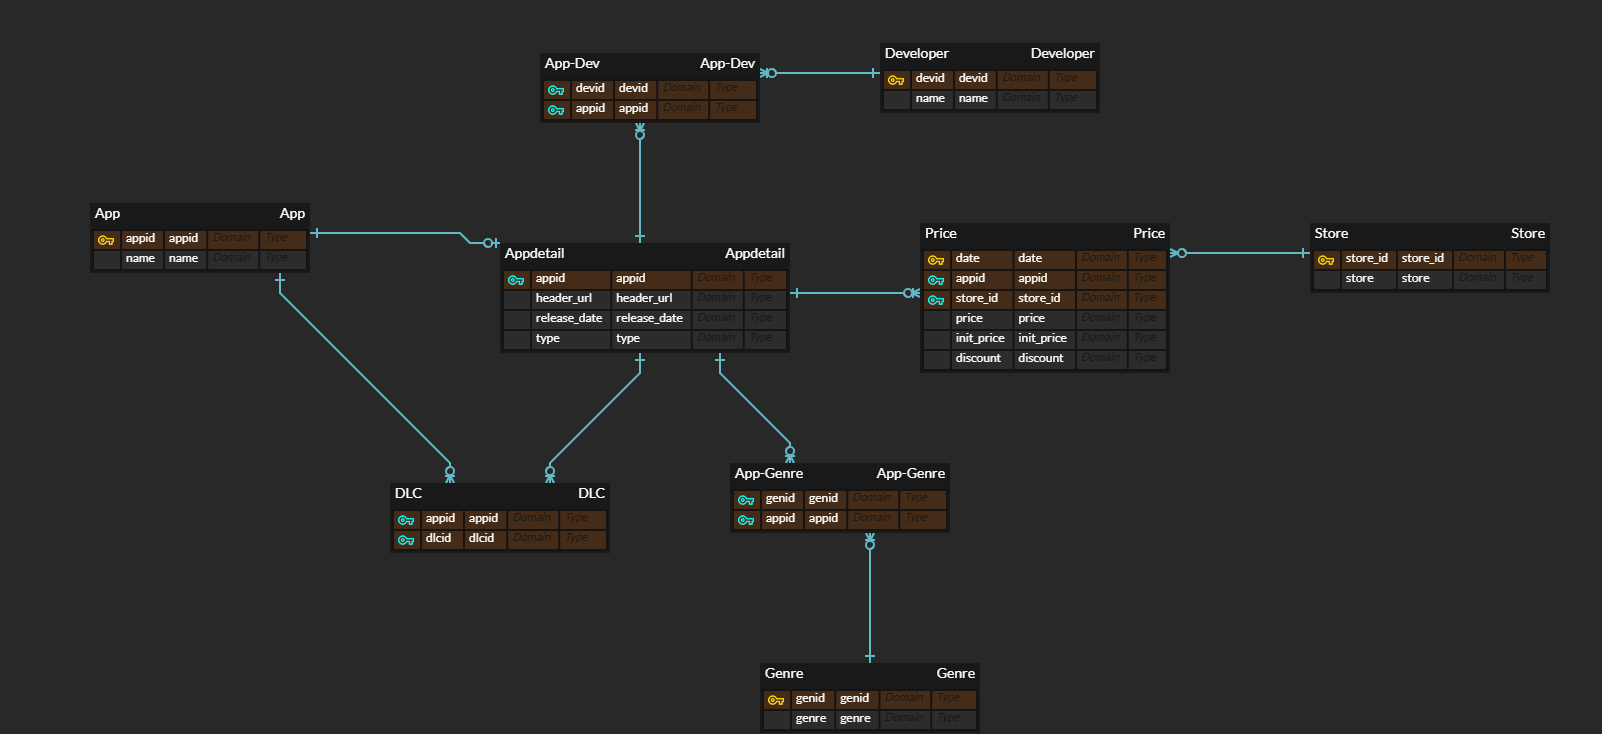
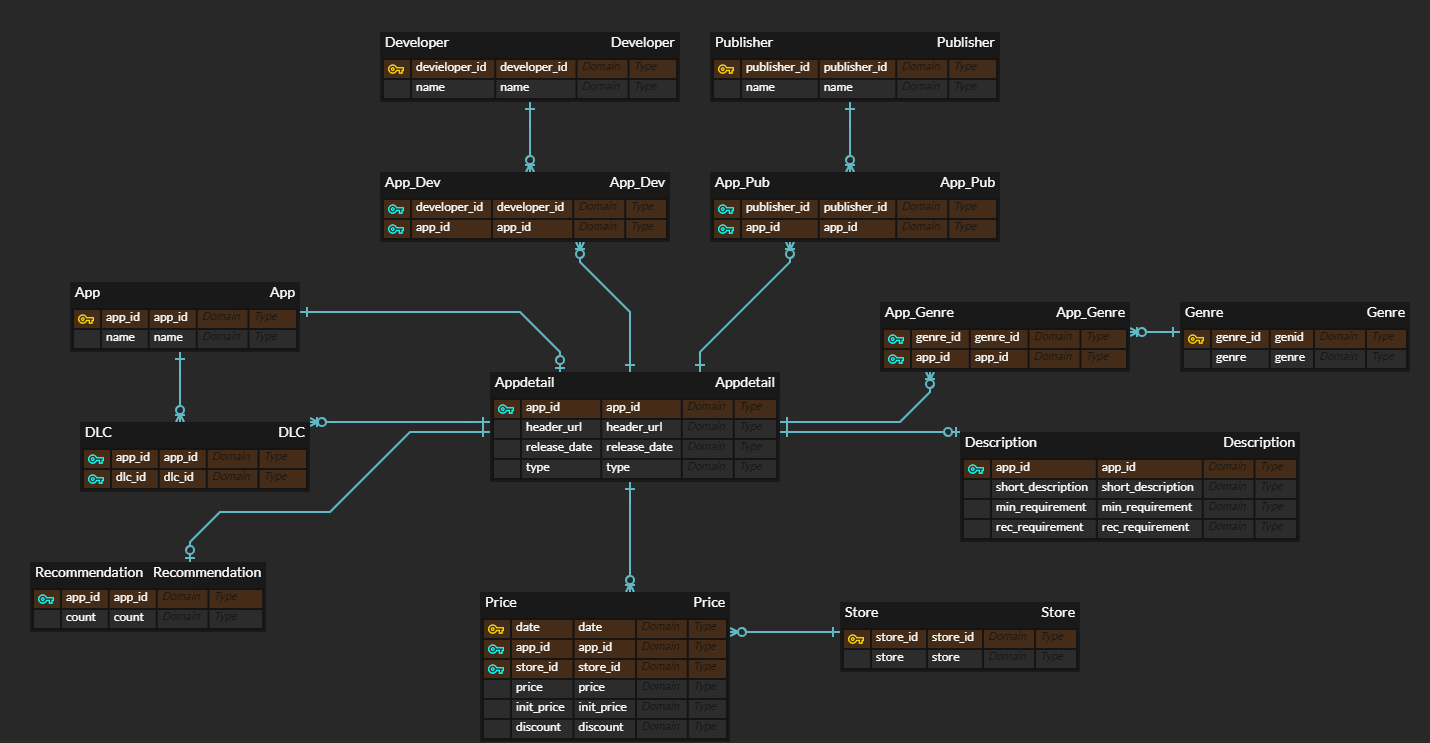
ver. 1.2.0
테이블 추가 - 추천수(recommendation), 공급사(Publisher, App_Pub), 게임설명(Description)
속성명 수정 - 헝가리안 명명법 적용 및 축약된 속성명 수정

diff --git a/README.md b/README.md
@@ -2,39 +2,54 @@
 
 ![ERD](attached/erd.png)
 
-- App: GetSteamAppList api에서 제공하는 14만 개 가량의 스팀 게임의 appid와 name을 저장하는 릴레이션
-    - **appid**: int, pk, 스팀 게임의 appid
+- App: GetSteamAppList api에서 제공하는 14만 개 가량의 스팀 게임의 app_id와 name을 저장하는 릴레이션
+    - **app_id**: int, pk, 스팀 게임의 app_id
     - name: varchar(65532), 게임의 이름
-- Appdetail: appdetails api에서 appid를 통해 조회 가능한 app의 상세 정보
-    - **appid:** int, pk, fk(App(appid)) cascade, App 릴레이션에서 참조
+- Appdetail: appdetails api에서 app_id를 통해 조회 가능한 app의 상세 정보
+    - **app_id:** int, pk, fk(App(app_id)) cascade, App 릴레이션에서 참조
     - header_url: varchar(65532), 헤더 이미지의 url
     - release_date: date, 게임의 공개일자
     - type: varchar(50), 게임의 유형(game, dlc 등 자세한 도메인 파악 필요), 도메인이 파악되면 데이터타입 변경이나 별도 릴레이션 생성 등의 조치 가능성도 있음
+- Recommendation: 추천 수
+    - **app_id:** int, pk, fk(App(app_id)) cascade, App 릴레이션에서 참조
+    - count: int, 추천 수
 - DLC: appdetails에서 제공하는 dlc 목록이 다중 값 속성이기 때문에 별도로 분리한 릴레이션
-    - **appid**: int, pk, fk(Appdetail(appid)) cascade, dlc를 가지는 원본 게임의 id
-    - **dlcid**: int, pk, fk(App(appid)) cascade, dlc의 id
+    - **app_id**: int, pk, fk(Appdetail(app_id)) cascade, dlc를 가지는 원본 게임의 id
+    - **dlc_id**: int, pk, fk(App(app_id)) cascade, dlc의 id
 - Store: 가격 정보의 구분을 위한 상점 정보
     - **store_id**: serial, pk, 인조키
     - name: varchar(50), Steam, Epic Games, Directg(steam), Directg(Epic)
 - Price: 날짜의 가격 저장하는 릴레이션
     - **date**: date, pk, 날짜
     - **store_id**: serial, pk, fk(store(store_id)), 어느 곳에서 판매하는 가격인지
-    - **appid**:  int, pk, fk(Appdetail(appid)),  게임의 아이디
+    - **app_id**:  int, pk, fk(Appdetail(app_id)),  게임의 아이디
     - price: int, 할인이 적용된 현재 판매가
     - init_price: int, 할인 전 원래 가격
     - discount: int, 할인율
 - Developer: 개발사
-    - **devid**: serial, pk, 개발사의 인조키
+    - **developer_id**: serial, pk, 개발사의 인조키
     - name: varchar(200), 개발사명
 - App_Dev: appdetails에서 제공하는 개발사 목록이 다중 값 속성이기 때문에 장르 릴레이션과의 관계를 나타내는 릴레이션
-    - **devid**: int, pk, fk(developer(devid))
-    - **appid**: int, pk, fk(appdetail(appid))
+    - **developer_id**: int, pk, fk(developer(developer_id))
+    - **app_id**: int, pk, fk(appdetail(app_id))
+- Publisher: 공급사
+    - **publisher_id**: serial, pk, 공급사의 인조키
+    - name: varchar(200), 공급사명
+- App_Pub: appdetails에서 제공하는 공급사 목록이 다중 값 속성이기 때문에 장르 릴레이션과의 관계를 나타내는 릴레이션
+    - **publisher_id**: int, pk, fk(publisher(publisher_id))
+    - **app_id**: int, pk, fk(appdetail(app_id))
 - Genre: 게임의 장르
-    - **genid**: int, pk, 장르의 id(스팀 제공)
+    - **genre_id**: int, pk, 장르의 id(스팀 제공)
     - genre: varchar(50), 장르명
 - App_Genre: appdetails에서 제공하는 장르 목록이 다중 값 속성이기 때문에 장르 릴레이션과의 관계를 나타내는 릴레이션
-    - **appid**: int, pk, fk(appdetail(appid))
-    - **genid**: int, pk, fk(genre(genid))
+    - **app_id**: int, pk, fk(appdetail(app_id))
+    - **genre_id**: int, pk, fk(genre(genre_id))
+- Description: 게임의 설명, 요구되는 PC 사양을 저장
+    - **app_id**: int, pk, fk(appdetail(app_id))
+    - short_description: text, 스팀 헤더 이미지 하단에 위치한 게임 설명
+    - min_requirement: text, 요구되는 최소 사양
+    - max_requirement: text, 요구되는 권장 사양
+
 
 # SQL
 [DDL SQL 파일](ddl.sql)
